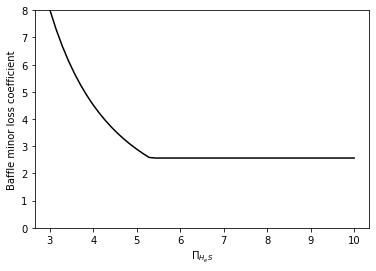
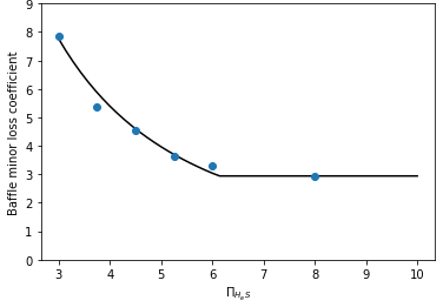
Andrew Pennock baffleK

diff --git a/Flocculation/Floc_Derivations.rst b/Flocculation/Floc_Derivations.rst
@@ -106,14 +106,35 @@ Equation :eq:`baffle_unexpanded_velocity_ratio` has a minimum value of 1 represe
 Equation :eq:`K_baffle_expanding_messy` can be simplified to obtain
 
 .. math::
-  :label: K_baffle_expanding
+  :label: K_baffle_expanding_guess
 
    K_{baffle_{exp}} = \left(\frac{\left(1 - \Pi_{vc}^{baffle}\right) ^ 2}{ \Pi_{vc}^{baffle} \Pi_{PlaneJet_{exp}} \Pi_{H_{e}S}}\right) ^ 2
 
-Equation :eq:`K_baffle_expanding` incorporates two assumptions that need to be checked with computational fluid dynamics.
+Equation :eq:`K_baffle_expanding_guess` incorporates two assumptions that need to be checked with computational fluid dynamics.
 
-1. The :math:`\Pi_{PlaneJet_{exp}}` may be missing a correction to account for the slower jet expansion along the baffle that is in contact with the jet.
-1. The distance for the jet to expand may be greater or less than :math:`H_e`.
+#. The :math:`\Pi_{PlaneJet_{exp}}` may be missing a correction to account for the slower jet expansion along the baffle that is in contact with the jet.
+
+#. The distance for the jet to expand may be greater or less than :math:`H_e`.
+
+Andrew Pennock conducted CFD analysis (see :numref:`figure_K_baffle_CFD`) to estimate the baffle loss coefficient as a function of the :math:`\Pi_{H_{e}S}` (see :numref:`figure_K_baffle`) and used error minimization to estimate the previous two factors. The jet expansion rate was found to be significantly less than :math:`\Pi_{PlaneJet_{exp}}`. The expansion rate between two baffles, :math:`\Pi_{BaffleJet_{exp}}`, had a value of 0.078.
+
+.. _figure_K_baffle_CFD:
+
+.. figure:: ../Images/K_baffle_CFD.png
+   :align: center
+   :width: 500px
+   :alt: CFD vc baffle
+
+   CFD analysis of flow around baffles with :math:`\Pi_{H_{e}S} = 8` showing the gradual flow expansion and return to a nearly uniform velocity before making the next bend (Andrew Pennock, 2022).
+
+The dimensionless distance for the jet to fully expand was found to be :math:`\Pi_{H_{e}S} + 2`. Finally, the :math:`\Pi_{vc}^{baffle}` was estimated to be 0.366. Equation :eq:`K_baffle_expanding_guess` can now be corrected given the CFD results to obtain
+
+
+.. math::
+  :label: K_baffle_expanding
+
+   K_{baffle_{exp}} = \left(\frac{\left(1 - \Pi_{vc}^{baffle}\right) ^ 2}{ \Pi_{vc}^{baffle} \Pi_{BaffleJet_{exp}} (\Pi_{H_{e}S} + 2)}\right) ^ 2
+
 
 .. _figure_K_baffle:
 
@@ -122,9 +143,9 @@ Equation :eq:`K_baffle_expanding` incorporates two assumptions that need to be c
    :width: 300px
    :alt: CFD vc baffle
 
-   Baffle minor loss coefficient (Equation :eq:`K_baffle_expanding`) is predicted to increase rapidly as the H/S ratio decreases.
+   Baffle minor loss coefficient (Equation :eq:`K_baffle_expanding`) was fit to the CFD analysis by Andrew Pennock.
 
-:numref:`figure_K_baffle` reveals that the baffle minor loss coefficient increases rapidly as :math:`\Pi_{H_{e}S}` decreases below about 5.6. This suggests that estimating the baffle minor loss coefficient correctly will be critical and more difficult for low values of :math:`\Pi_{H_{e}S}`.
+:numref:`figure_K_baffle` reveals that the baffle minor loss coefficient increases rapidly as :math:`\Pi_{H_{e}S}` decreases below about 6.
 
 
 Linking head loss, velocity gradient, and geometry

diff --git a/Authors.rst b/Authors.rst
@@ -24,6 +24,7 @@ This text is a collaborative effort involving hundreds of people. Innovation req
 - Anna Doyle
 - Susan McGrattan
 - Emily Wood
+- Andrew Pennock
 
 Reviewers have contributed by catching errors and suggesting improvements. Reviewers include:
 
